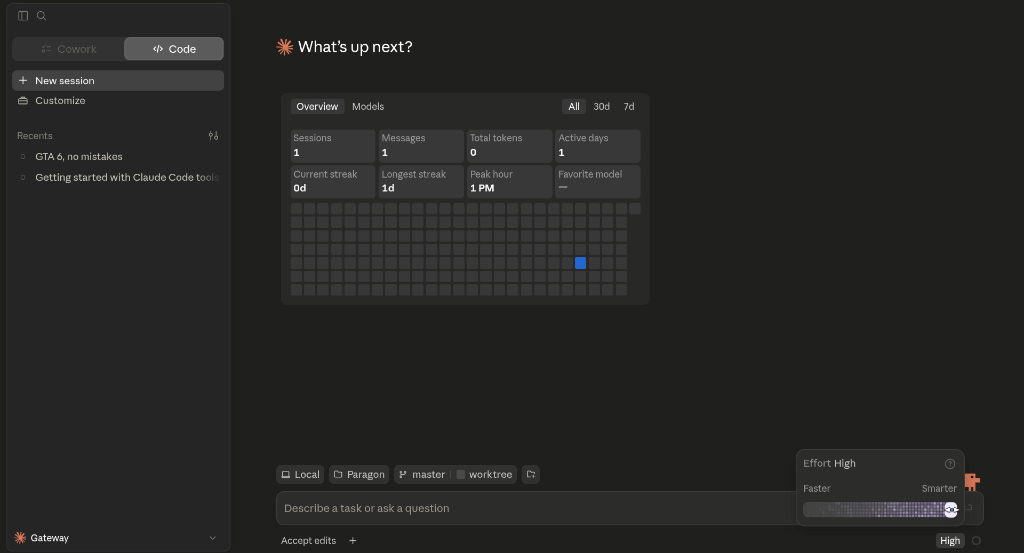
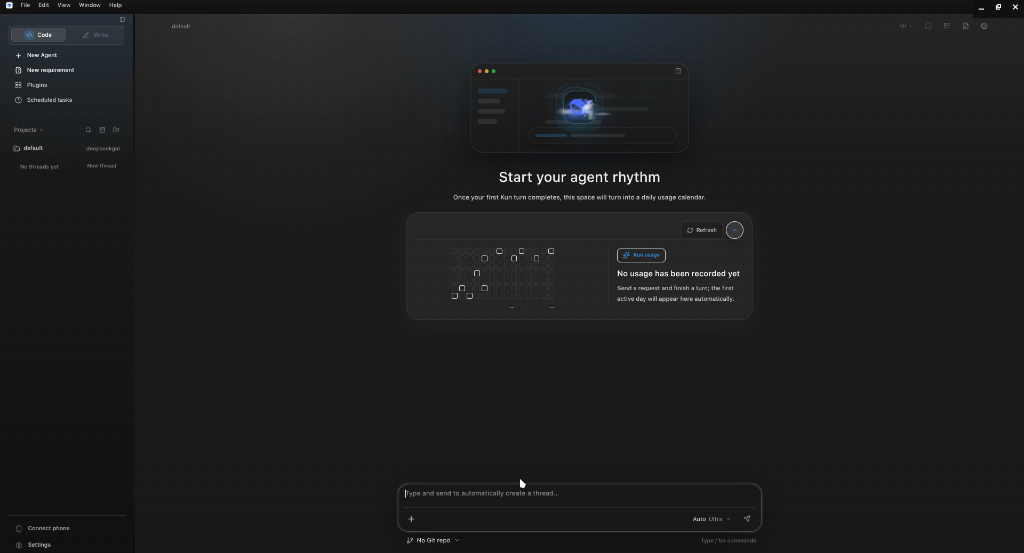
docs: update deepseek and codex screenshots with verified versions

diff --git a/docs/guides/codex/README.md b/docs/guides/codex/README.md
@@ -8,15 +8,11 @@ By following this guide, you will compile the required Linux-native SQLite modul
 
 ---
 
-## Screenshots of Successful Execution
+## Screenshot of Successful Execution
 
 Here is Codex Desktop running on Ubuntu 24.04 via the macRun platform under our newly implemented C++ dynamic runtime shims:
 
-### Light Mode Layout
-![Codex in Light Mode](images/codex_light.png)
-
-### Dark Mode Layout
-![Codex in Dark Mode](images/codex_dark.png)
+![Codex Desktop on Linux](images/codex_linux.png)
 
 ---
 